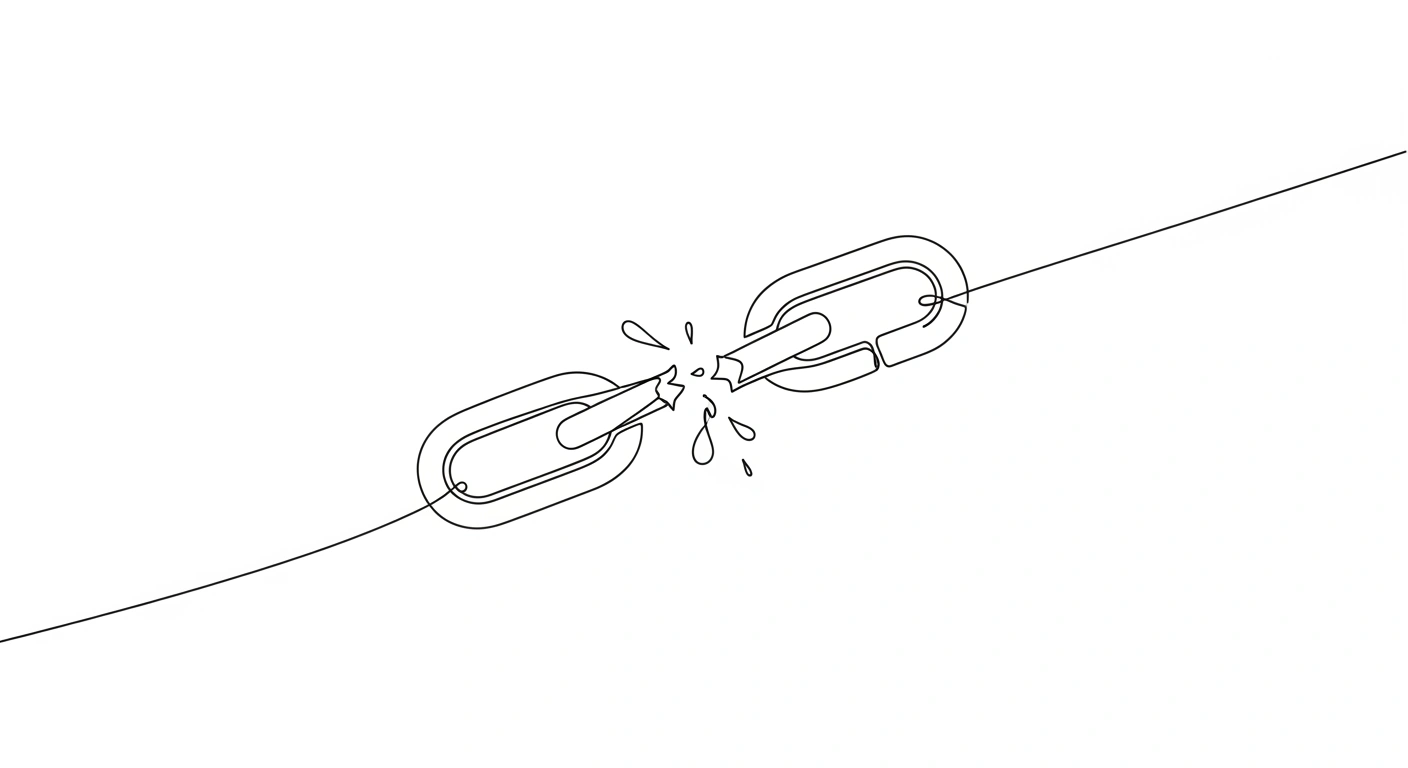
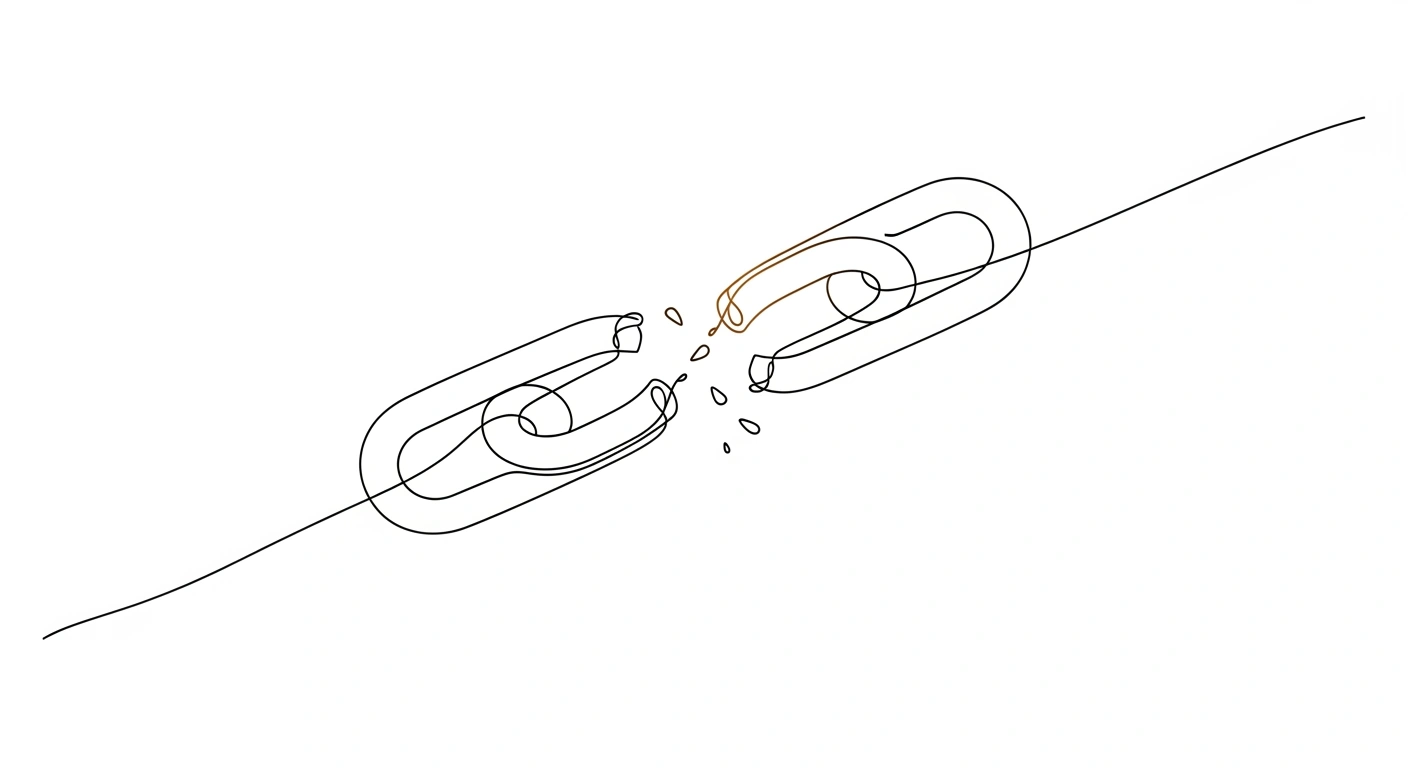
feat: line-art blog images with amber accent + card contrast fix
Regenerated all 19 line-art illustrations with a single warm amber
gold accent colour on one element per image. Council #29 Art Director
+ #28 Prompt Engineer: "like architectural drawings with one red
dimension line" — the amber highlight draws the eye without breaking
the monochrome line-art system.

Prompt prefix updated: added "with one element highlighted in warm
amber gold color" to the enforced style prefix.

Card rendering fixes (Kael):
- Featured article image bg: bg-paper → bg-paper-sub (visible boundary)
- Grid card image bg: bg-paper → bg-paper-sub + border-b border-ink-rule
  (separates image from card content)

Images render via Next.js Image component with object-contain + padding
so the line art floats cleanly within the card without touching edges.

diff --git a/src/app/blog/page.tsx b/src/app/blog/page.tsx
@@ -290,8 +290,8 @@ export default function BlogPage() {
                 <article className="paper-card-raised overflow-hidden">
                   <div className="grid lg:grid-cols-2">
                     {featuredPost.image && (
-                      <div className="relative h-48 lg:h-auto min-h-[200px] overflow-hidden bg-paper">
-                        <Image src={featuredPost.image} alt={featuredPost.title} fill className="object-contain p-8" />
+                      <div className="relative h-48 lg:h-auto min-h-[200px] overflow-hidden bg-paper-sub">
+                        <Image src={featuredPost.image} alt={featuredPost.title} fill className="object-contain p-6" />
                       </div>
                     )}
                     <div className="p-8 sm:p-10 lg:p-12 flex flex-col justify-center">
@@ -352,7 +352,7 @@ export default function BlogPage() {
                 <CascadingScrollAnimation key={post.slug} direction="up" distance={30} delay={(i % 3) * 80}>
                   <article className="paper-card overflow-hidden h-full flex flex-col group">
                     {post.image && (
-                      <div className="relative h-36 overflow-hidden bg-paper">
+                      <div className="relative h-36 overflow-hidden bg-paper-sub border-b border-ink-rule">
                         <Image src={post.image} alt={post.title} fill className="object-contain p-4" />
                       </div>
                     )}
